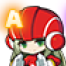
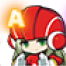
fix: 빨강 팀 이미지 수정본 반영, 이미지 주소에 캐시 버전 추가

diff --git a/GMS_WEEK_BOSS/index.html b/GMS_WEEK_BOSS/index.html
@@ -849,7 +849,7 @@
 <!-- <script src="hyperstat.js?v=20260901a"></script> 하이퍼스탯 최적화 — 데이터 검증 전까지 내림 -->
 <script src="liberation.js?v=20260901a"></script>
 <script src="starforce_sim.js?v=20260927a"></script>
-<script src="cube.js?v=20260927a"></script><script src="familiar.js?v=20260926a"></script><script src="soulsim.js?v=20260927j"></script><script src="polish.js?v=20260927b"></script><script src="data_frontier.js?v=20260825g"></script><script src="frontier.js?v=20260901b"></script><script src="meundi.js?v=20261003l"></script>
+<script src="cube.js?v=20260927a"></script><script src="familiar.js?v=20260926a"></script><script src="soulsim.js?v=20260927j"></script><script src="polish.js?v=20260927b"></script><script src="data_frontier.js?v=20260825g"></script><script src="frontier.js?v=20260901b"></script><script src="meundi.js?v=20261003m"></script>
 <script src="addoption.js?v=20261002a"></script><script src="bosshp.js?v=20260924b"></script>
 <script src="serverstatus.js?v=20260925a"></script><script src="vendor/quill/quill.min.js?v=1.3.7"></script><script src="community.js?v=20260826l"></script>
 <script src="dailytasks.js?v=20260826c"></script>

diff --git a/GMS_WEEK_BOSS/app.js b/GMS_WEEK_BOSS/app.js
@@ -1770,7 +1770,7 @@ const NOTICE_LOG = [
       },
       {
         head: '운빨 디펜스 카드에 사이드킥 얼굴 표시',
-        desc: '빨강, 검정, 노랑 팀별 S부터 E까지 얼굴 이미지를 타일에 넣고 레벨은 Lv. 형식으로 표시.',
+        desc: '빨강, 검정, 노랑 팀별 S부터 E까지 얼굴 이미지를 타일에 넣고 레벨은 Lv. 형식으로 표시. 빨강 팀 이미지 수정.',
       },
     ],
   },
@@ -1903,7 +1903,7 @@ const NOTICE_LOG = [
 // 카드에 보여줄 최근 며칠치. 너무 길어지면 읽지 않으므로 잘라서 보여준다.
 const NOTICE_SHOW_DAYS = 3;
 const NOTICE = {
-  id: '2026-10-03-meundi-k',   // 이 값이 바뀌어야 이미 확인한 사람에게도 다시 뜬다
+  id: '2026-10-03-meundi-l',   // 이 값이 바뀌어야 이미 확인한 사람에게도 다시 뜬다
   title: '업데이트 안내',
   days: NOTICE_LOG.slice(0, NOTICE_SHOW_DAYS),
 };

diff --git a/GMS_WEEK_BOSS/meundi.js b/GMS_WEEK_BOSS/meundi.js
@@ -127,7 +127,7 @@ function _muSquadHtml(code) {
     const rank = t[0], lv = t.slice(1);
     const cls = ['r', 'k', 'y'][i];
     const team = ['Red', 'Black', 'Yellow'][i];
-    return `<div class="mu-u mu-u--${cls}"><img src="images/meundi/${team}_${rank}.png" alt="${rank}" width="46" height="46"><span${lv === '0' ? ' class="mu-zero"' : ''}>Lv. ${lv}</span></div>`;
+    return `<div class="mu-u mu-u--${cls}"><img src="images/meundi/${team}_${rank}.png?v=20261003b" alt="${rank}" width="46" height="46"><span${lv === '0' ? ' class="mu-zero"' : ''}>Lv. ${lv}</span></div>`;
   }).join('');
   return `<div class="mu-card${shaky ? ' mu-card--shaky' : ''}${rep ? ' mu-card--rep' : ''}"${shaky ? ' title="근소하거나 결과가 갈린 조합"' : rep ? ' title="단일 제보"' : note ? ` title="${note}"` : ''}><div class="mu-units">${tiles}</div></div>`;
 }
